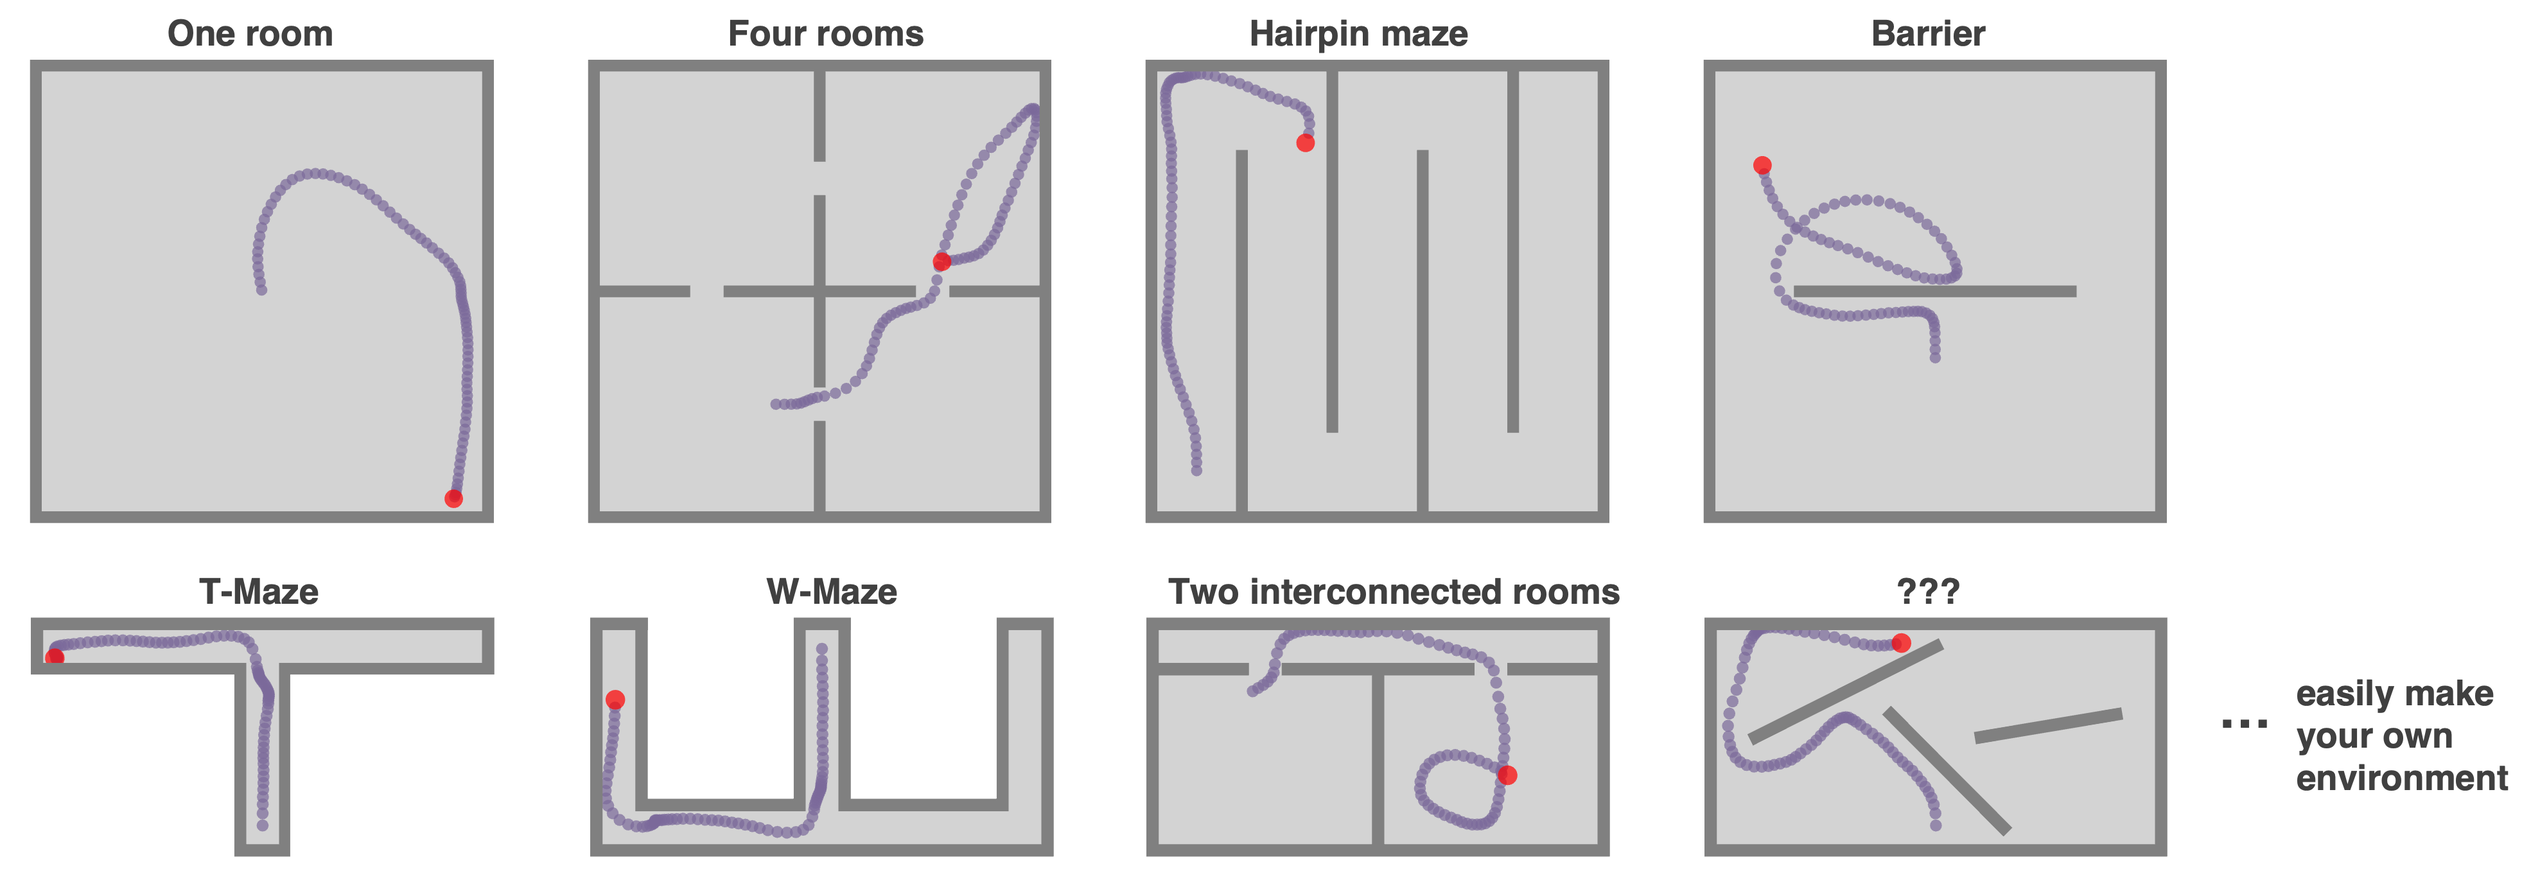
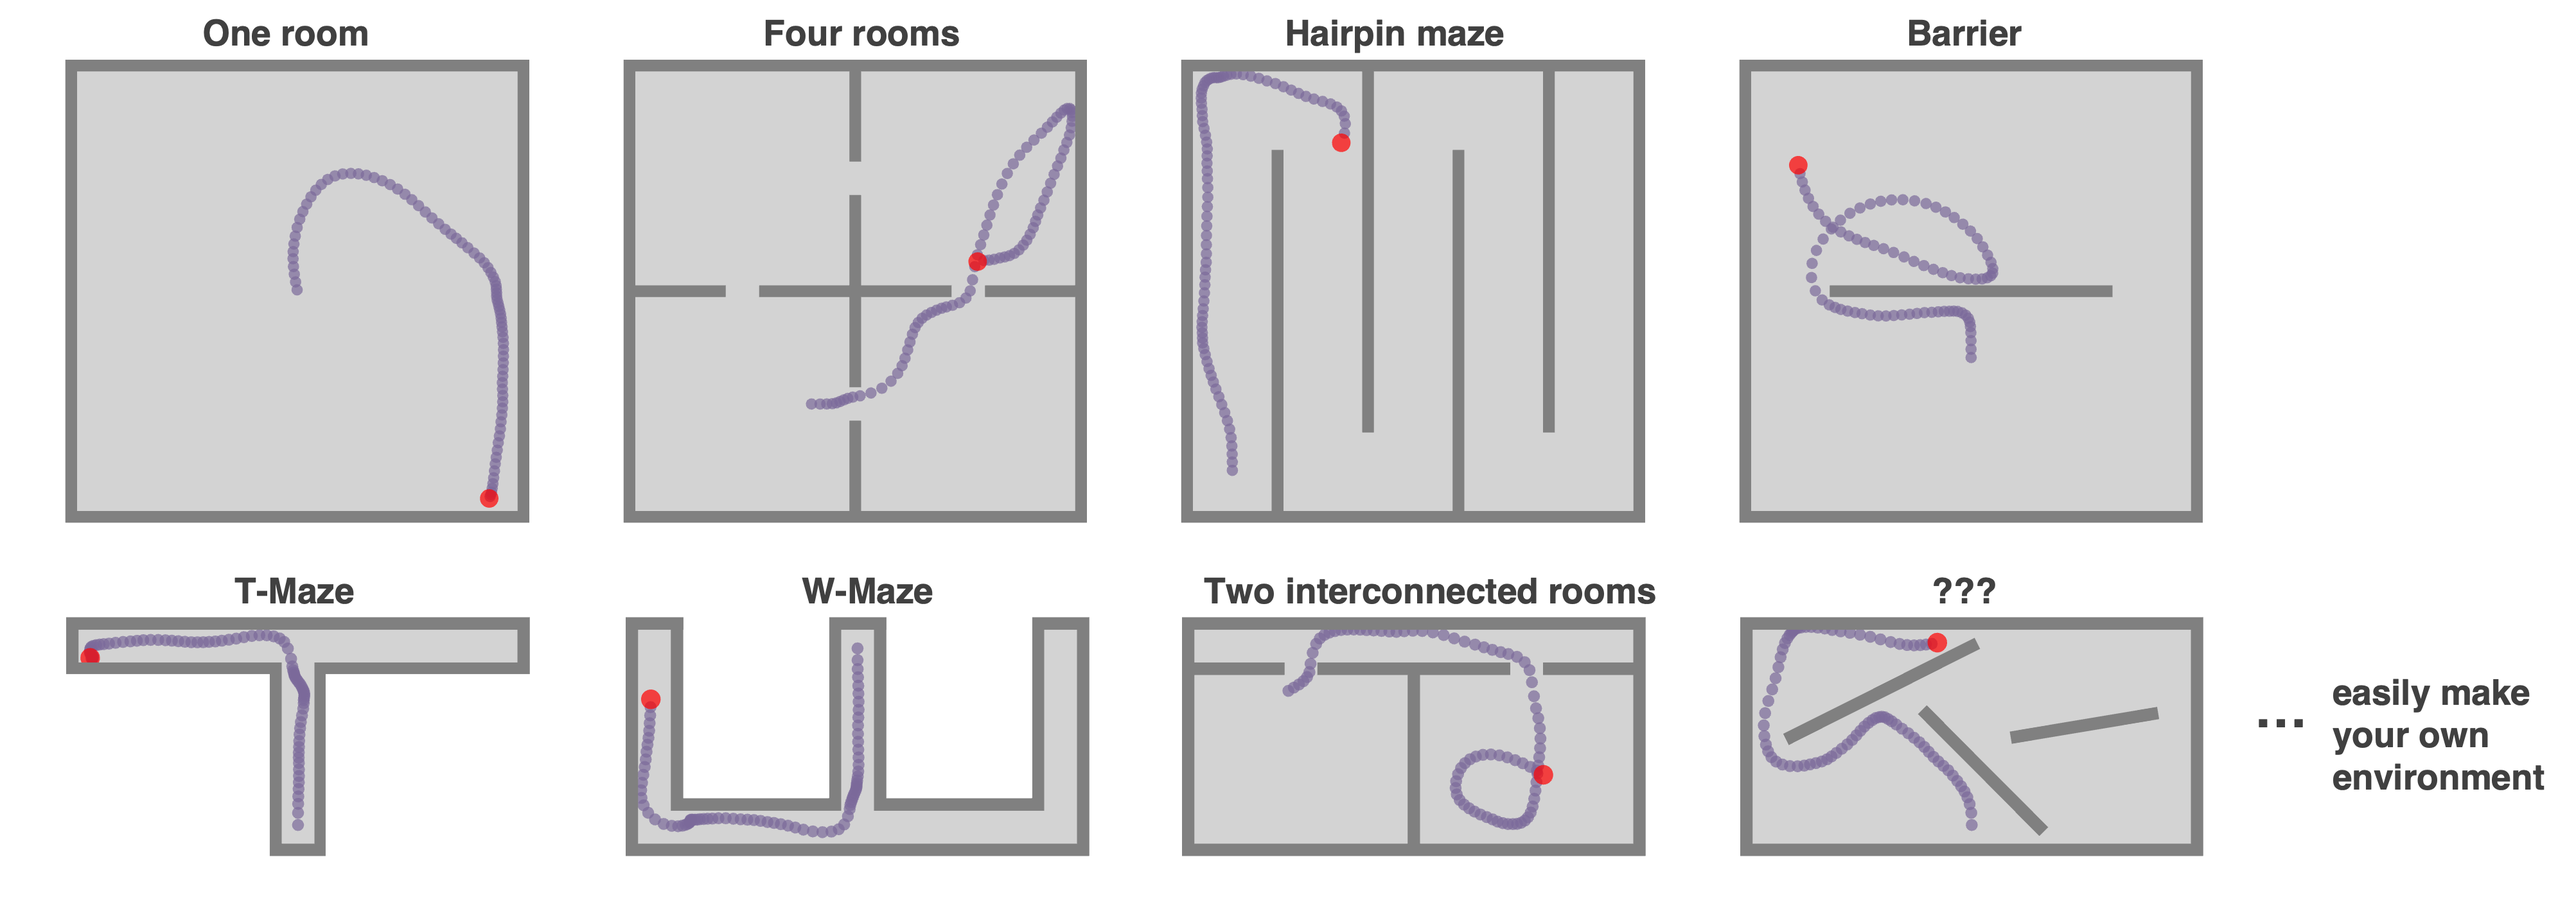
readme

diff --git a/ratinabox.py b/ratinabox.py
@@ -468,7 +468,7 @@ class Agent:
             #Bounce off walls you collide with
             elif True in wall_collisions:
                 colliding_wall = walls[np.argwhere(wall_collisions==True)[0][0]]
-                self.velocity = 0.2*wall_bounce(self.velocity,colliding_wall)
+                self.velocity = 1*wall_bounce(self.velocity,colliding_wall)
                 self.pos += self.velocity * dt
 
             #Drift velocity set to move agent away from walls
@@ -579,7 +579,7 @@ class Agent:
             skiprate = max(1, int(scatter_distance / (approx_speed * dt)))
             trajectory = pos[startid:endid, :][::skiprate]
         if self.Environment.dimensionality == '1D':
-            scatter_distance = 0.04
+            scatter_distance = 0.02
             skiprate = max(1, int(scatter_distance / (approx_speed * dt)))
             trajectory = pos[startid:endid][::skiprate]
         time = t[startid:endid][::skiprate]
@@ -607,13 +607,19 @@ class Agent:
         if self.Environment.dimensionality == "1D":
             if fig is None and ax is None:
                 fig, ax = plt.subplots(figsize=(6, 3))
-            ax.scatter(time, trajectory,alpha=0.7)
+            ax.scatter(time/60, trajectory,alpha=0.7)
             ax.spines["left"].set_position(("data", t[startid]))
-            ax.set_xlabel("Time / s")
+            ax.set_xlabel("Time / min")
             ax.set_ylabel("Position / m")
             if xlim is not None: 
                 ax.set_xlim(right=xlim)
             ax.set_ylim(bottom=0,top=self.Environment.extent[1])
+            ax.spines["right"].set_color(None)
+            ax.spines["top"].set_color(None)
+            ax.set_xticks([t_start/60,t_end/60])
+            ex = self.Environment.extent
+            ax.set_yticks([ex[0],ex[1]])
+
         return fig, ax
     
     def animate_trajectory(self,

diff --git a/readme.md b/readme.md
@@ -65,17 +65,28 @@ Env.add_wall([[0.3,0.0],[0.3,0.5]])
 ![](./readme_figs/walls.png)
 
 #### Boundary conditions 
-Boundary conditions can be "periodic" or "solid". Place cells and the Agent will respect boundaries accordingly.
+Boundary conditions can be "periodic" or "solid". Place cells and the Agent will respect boundaries accordingly. Initialise with 'solid' or 'periodic' boundary conditions with 
+```
+Env = Environment(
+    params = {'boundary_conditions':'periodic'} #or 'solid' (default)
+) 
+```
 ![](./figures/readme/boundary_conditions.png)
 
 #### 1- or 2-dimensions 
-Most features work in both 1 and 2 dimensions. Some don't (e.g. walls, boundary_vector_cells aren't defined in 1D)
-![](./figures/readme/one_dimension.pdf)
+Most features work in both 1 and 2 dimensions. The following figure shows 1 min of exploration of an agent in a 1D environment with periodic boundary conditions spanned by 10 place cells. 
+Initialise a 1- or 2D environmnet like 
+```
+Env = Environment(
+    params = {'dimensionality':'1D'} #or '2D' (default)
+) 
+```
+![](./figures/readme/one_dimension.png)
 
 
 ### (ii) `Agent()` features
 #### Wall repelling 
-Walls mildly repel the agents. Coupled with the finite turning speed this creates a combined effect that the agent is encourged over explore walls and corners (as shown in ...et al.). This can of course be turned off.
+Walls in the environment mildly "repel" the agent. Coupled with the finite turning speed this creates, somewhat counterintuitively, a combined effect where the agent is biased to  over-explore near walls and corners. This is displayed in the heatmaps below which summarise 1 hour of exploration with wall repulsion on (left) and off(right). Note increased time spent near walls in left, but not right plot. This bias is true of real rodent foraging behaviour. 
 ```
 Αg.walls_repel = True #False
 ```
@@ -91,7 +102,7 @@ Agent.speed_coherence_time = 3
 Agent.rotation_velocity_std = 0.1
 Agent.rotational_velocity_coherence_time = 3
 ```
-![](./figures/readme/walls_repel.pdf)
+![](./figures/readme/motion_model.pdf)
 
 
 #### Policy control 
